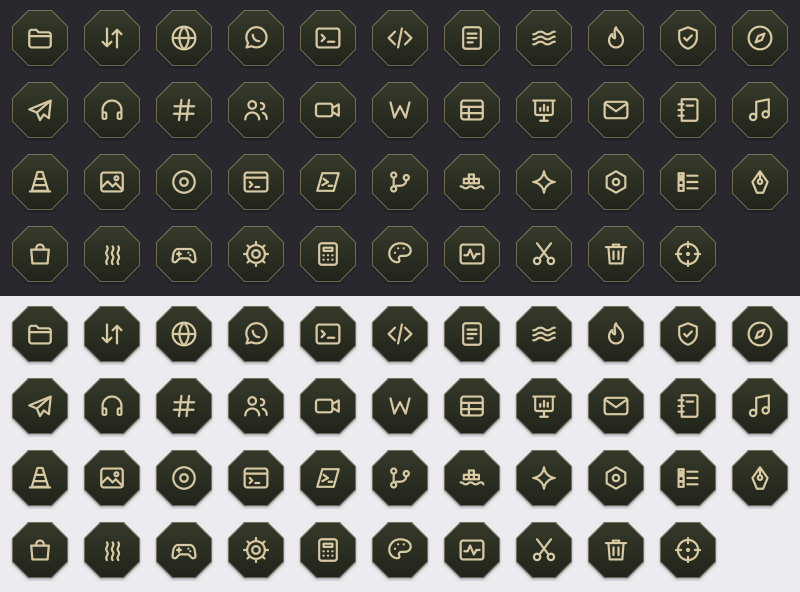
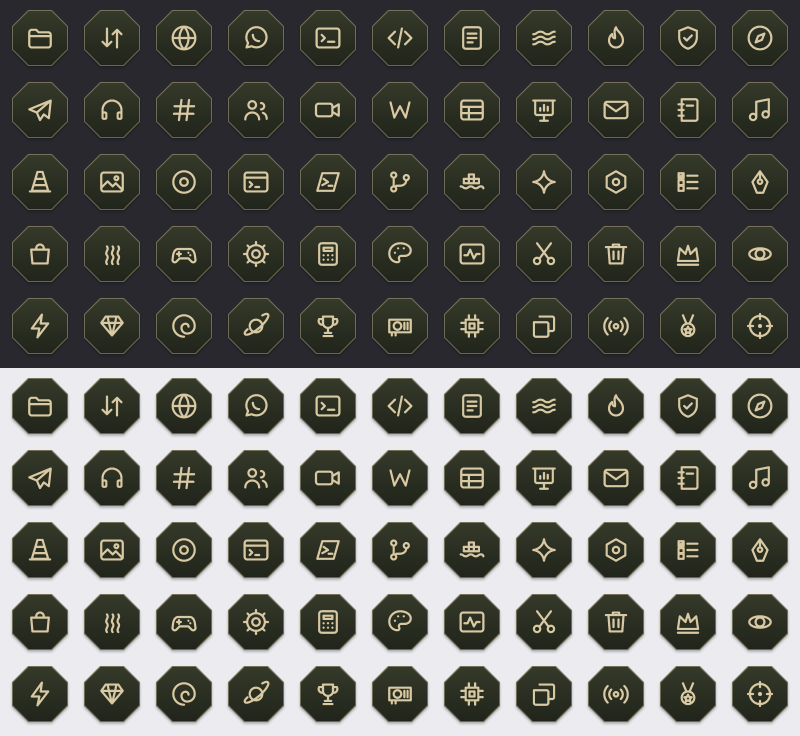
feat: pacote Tático com os glifos dos launchers

Changed region(s): [[0.0, 0.0, 1.0, 1.0], [0.375, 0.0, 0.625, 0.4865], [0.9375, 0.3953, 0.9688, 0.4561]]

diff --git a/src-tauri/src/persistence/bundled_packs.rs b/src-tauri/src/persistence/bundled_packs.rs
@@ -1032,6 +1032,8 @@ pub const TATICO: Bundled = Bundled {
     id: "tatico",
     files: pack_files!("tatico":
         "pack.json",
+        "apps/amd.png",
+        "apps/battlenet.png",
         "apps/bloco-de-notas.png",
         "apps/brave.png",
         "apps/calculadora.png",
@@ -1042,26 +1044,34 @@ pub const TATICO: Bundled = Bundled {
         "apps/configuracoes.png",
         "apps/discord.png",
         "apps/docker.png",
+        "apps/ea.png",
         "apps/edge.png",
+        "apps/epic.png",
         "apps/excel.png",
         "apps/explorador.png",
+        "apps/faceit.png",
         "apps/figma.png",
         "apps/filezilla.png",
         "apps/firefox.png",
         "apps/fotos.png",
         "apps/gerenciador.png",
         "apps/github.png",
+        "apps/gog.png",
         "apps/lixeira.png",
+        "apps/medal.png",
         "apps/mira.png",
         "apps/notion.png",
+        "apps/nvidia.png",
         "apps/obs.png",
         "apps/onenote.png",
         "apps/opera.png",
         "apps/outlook.png",
+        "apps/overwolf.png",
         "apps/paint.png",
         "apps/powerpoint.png",
         "apps/powershell.png",
         "apps/prompt.png",
+        "apps/riot.png",
         "apps/slack.png",
         "apps/spotify.png",
         "apps/steam.png",
@@ -1069,6 +1079,8 @@ pub const TATICO: Bundled = Bundled {
         "apps/teams.png",
         "apps/telegram.png",
         "apps/terminal.png",
+        "apps/twitch.png",
+        "apps/ubisoft.png",
         "apps/vlc.png",
         "apps/vscode.png",
         "apps/whatsapp.png",
@@ -1833,6 +1845,7 @@ mod tests {
             VIDRO,
             NEON,
             ARGILA,
+            TATICO,
         ] {
             let manifest = pack.manifest();
             for app in launchers {

diff --git a/docs/specs/0020-temas.md b/docs/specs/0020-temas.md
@@ -72,6 +72,6 @@ Tomadas numa sessão de perguntas (Q1–Q22), todas na recomendação:
   - **Pacote** `tatico` (`fonte/tatico.txt`, estilo de camadas `tatico`): o glifo de contorno em areia sobre placa octogonal (quadrado chanfrado em 29% do lado) em gradiente oliva (`#353A2A` → `#20241A`), com fio de areia a 40% na borda e sombra curta. A reserva é uma retícula de mira (`apps/mira.png`): o `vetor.py` passa a aceitar `reserva-id` e `reserva` no `.txt` do pacote, para trocar o glifo da reserva.
   - **Tema** `tactical`: skin Tático, pacote Tático e indicador do estilo.
   - **Verificado ao vivo** (2026-10-30, build e2e, cópia dos dados do autor): o cartão Tático gravou estilo `tactical` e pacote `tatico`, e o dock desenhou a barra chanfrada com o fio de areia, os ícones nas placas octogonais e as marcas laranja. "Cantos" sumiu. Memória: 294 MB em 7 processos com Configurações aberta. A barra do Windows ficou igual. Fotos em [`docs/fotos/g7-tatico-ao-vivo.png`](../fotos/g7-tatico-ao-vivo.png).
-  - **Pendente:** o pacote foi gerado com os 43 glifos deste branch; quando o PR dos launchers (#111) entrar, ele é gerado de novo com os 55.
+  - Com os glifos dos launchers (passo 2), o pacote cobre 55 apps, e o teste dos launchers inclui o Tático.
 - **Medieval 8-bit:** barra em pixel art, com moldura de madeira escura, cantoneiras de ferro com rebites e meio de pedra; indicador ouro `#E8B84A`. Ícones: pixel 32×32 em "espaço de inventário" de pedra com bisel, paleta terrosa limitada, fonte em texto e `gerar.py`. Reserva: baú.
 - **Caçador:** barra de couro curtido com costura pespontada e cantos de osso; indicador âmbar `#F2A33A`. Ícones: medalhão de couro com aro de osso e o glifo gravado em âmbar, em relevo. Reserva: pegada de garra.
